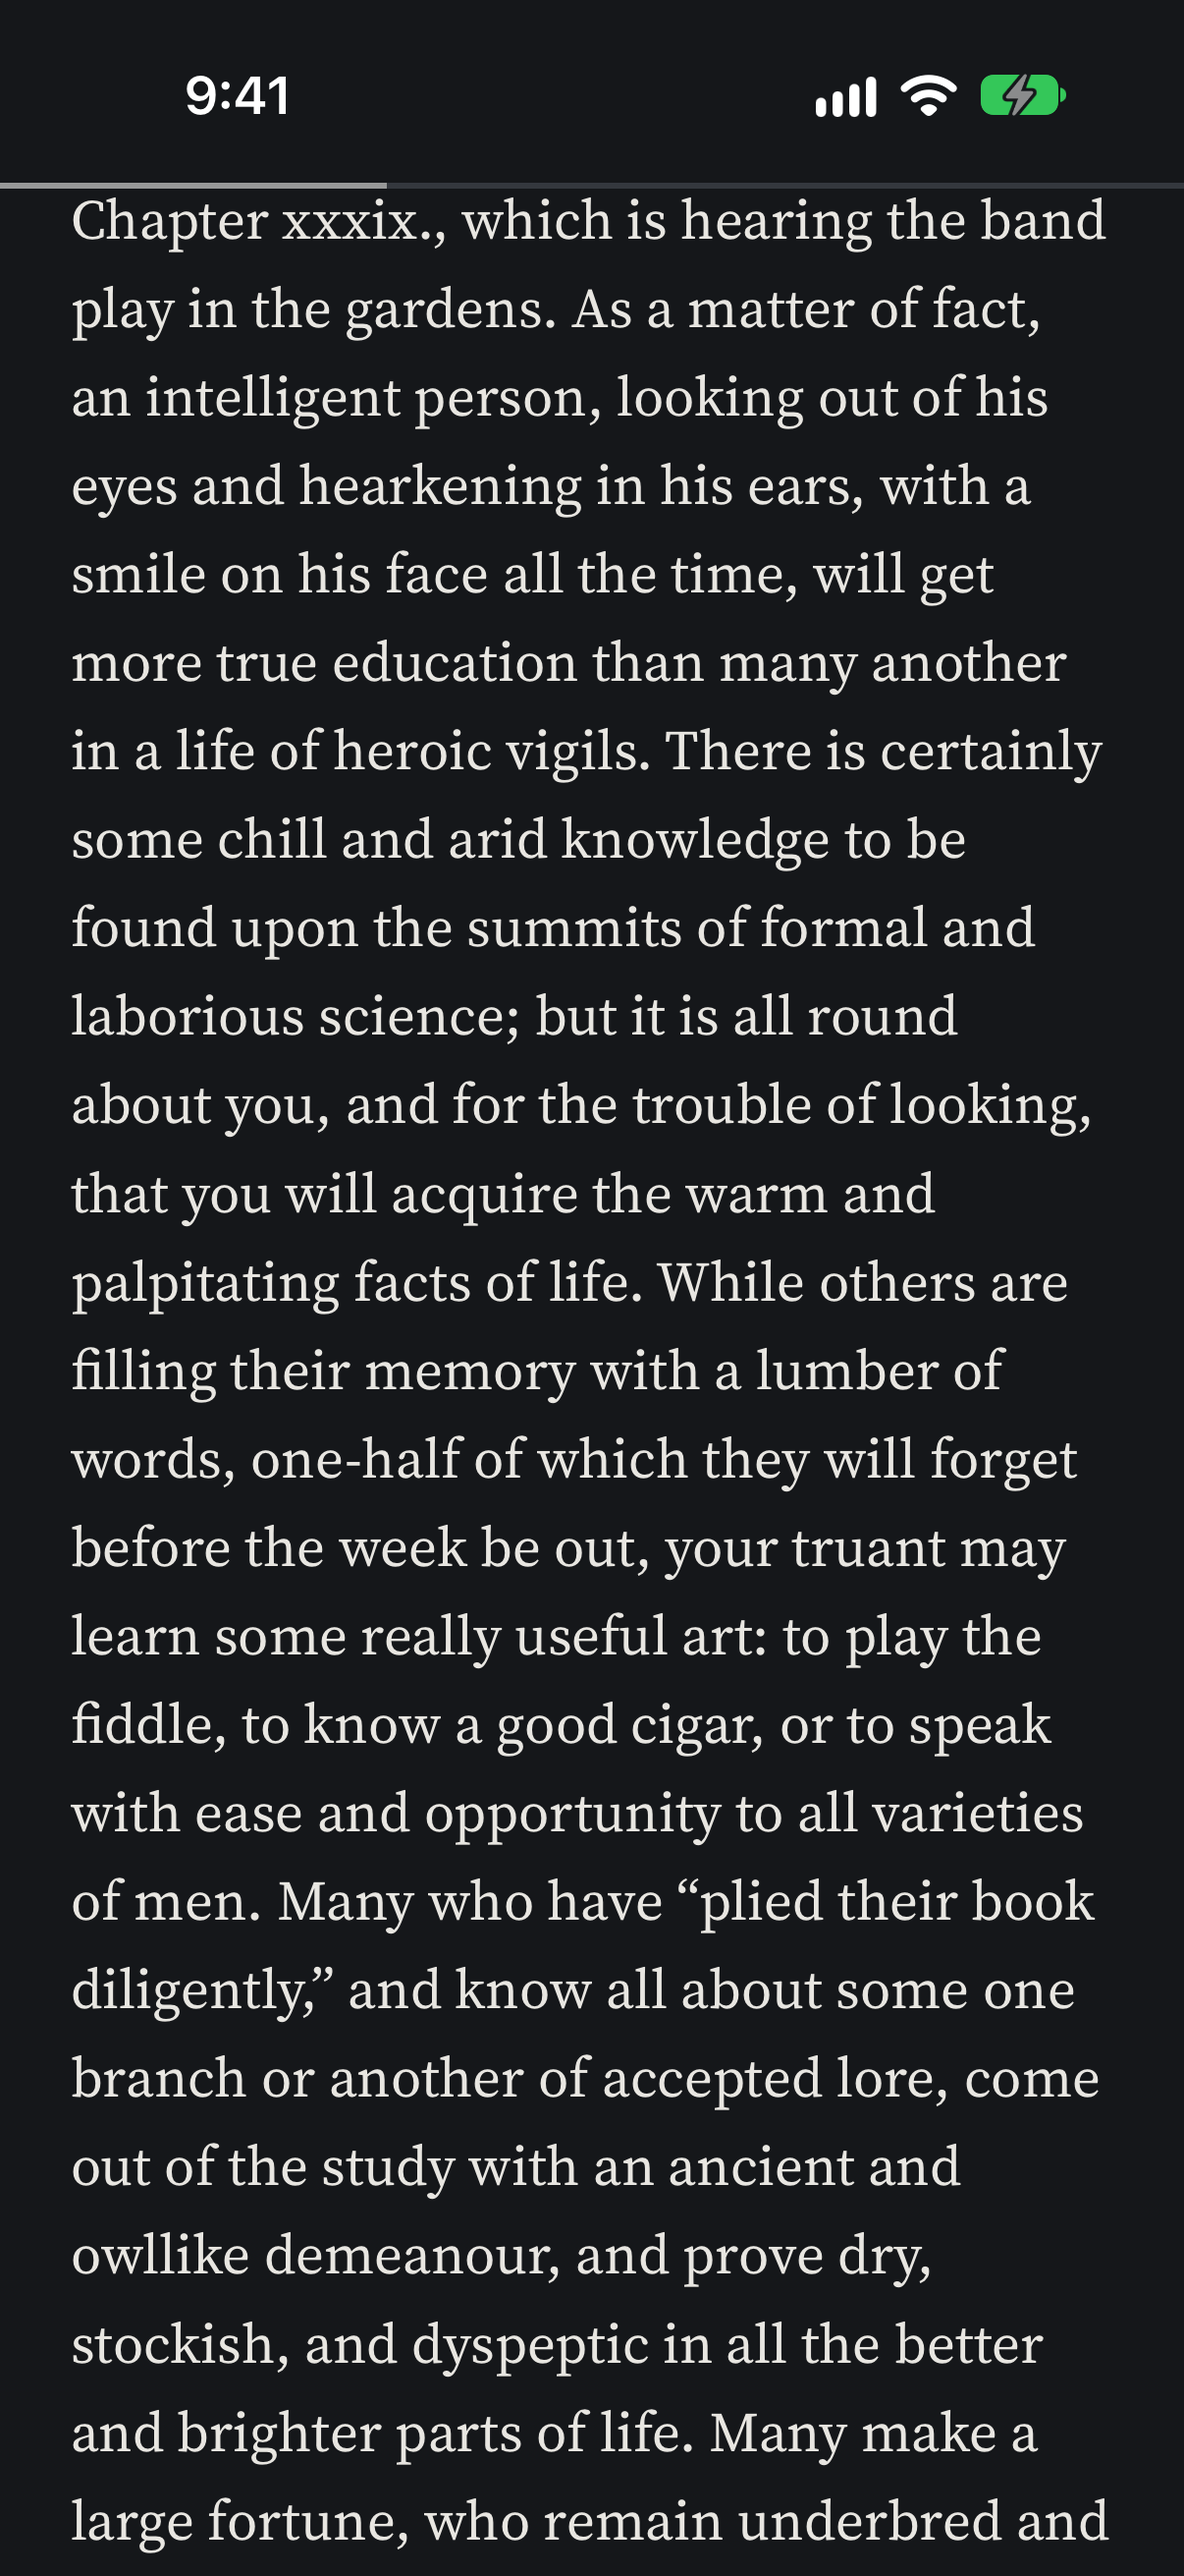
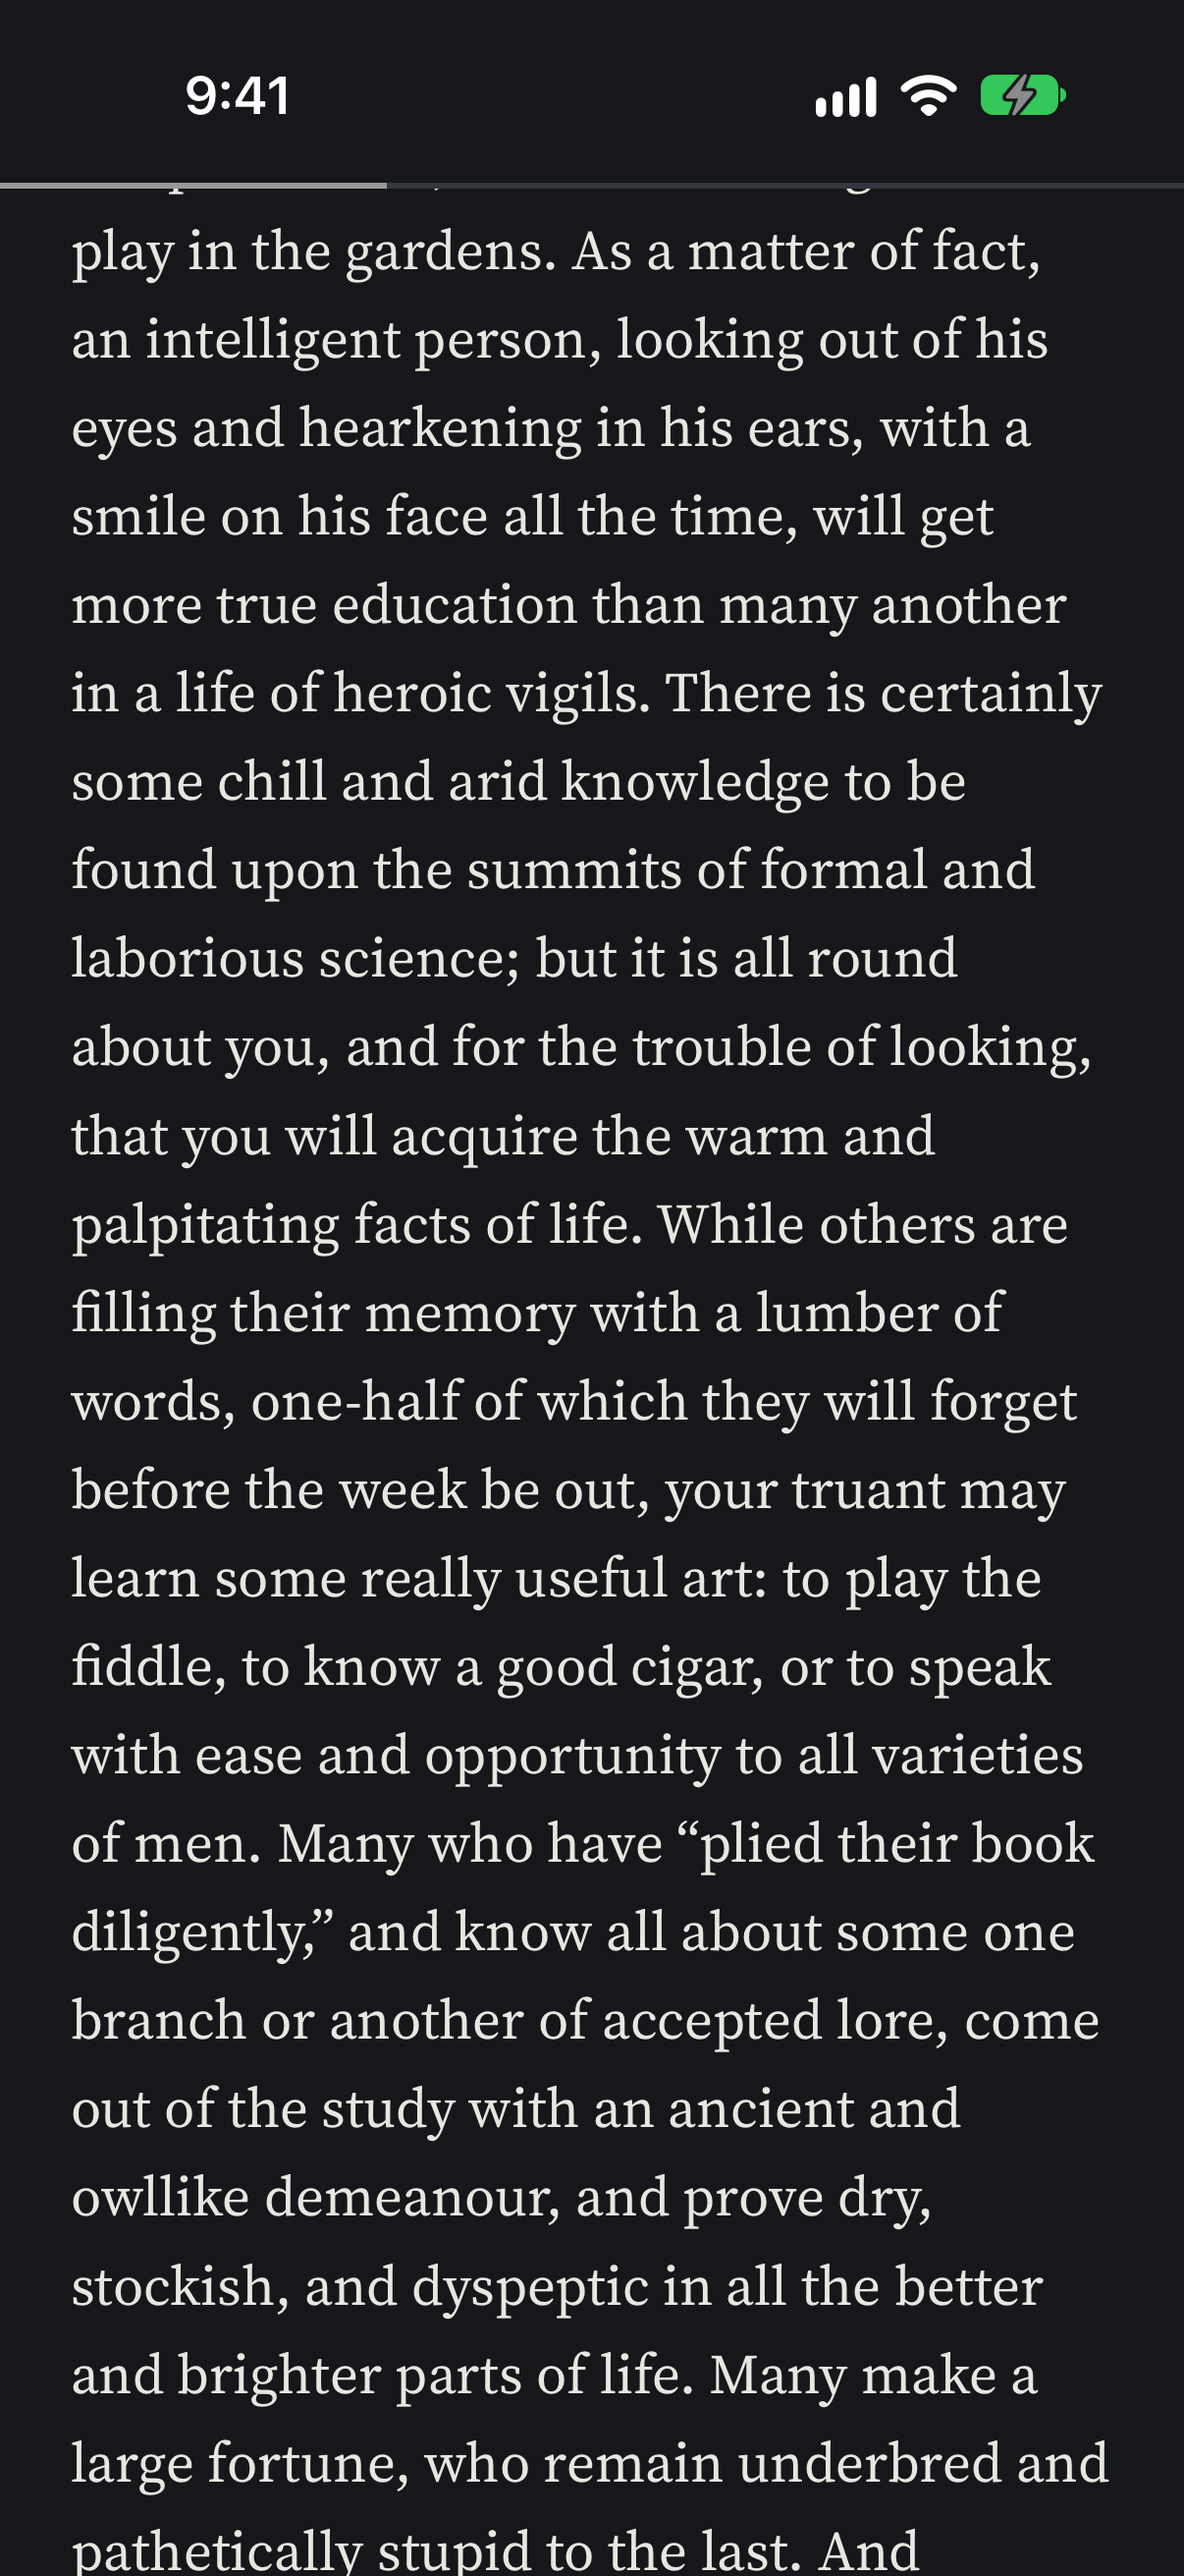
Fade the reader into its paper under the bars on iPhone (TOB-548)

Changed region(s): [[0.0614, 0.0618, 0.9511, 1.0]]

diff --git a/apple/Inkling/Reader/ReaderView.swift b/apple/Inkling/Reader/ReaderView.swift
@@ -31,6 +31,9 @@ struct ReaderView: View {
                     .frame(maxHeight: .infinity)
             }
         }
+        #if os(iOS)
+        .overlay { EdgeFades(ground: Color(palette.ground), shown: model?.chromeHidden != true) }
+        #endif
         .overlay(alignment: .top) {
             if let model { ProgressLine(progress: model.progress, palette: palette) }
         }
@@ -173,6 +176,34 @@ private struct Place: View {
         return "Chapter \(model.chapter + 1) of \(model.rendered.chapters.count) · \(percent)"
     }
 }
+
+#if os(iOS)
+/// The text dims into the paper under the bars, so a line never reads through their glass. The
+/// fades go with the bars.
+private struct EdgeFades: View {
+    let ground: Color
+    let shown: Bool
+
+    var body: some View {
+        GeometryReader { space in
+            VStack(spacing: 0) {
+                fade(from: .top).frame(height: space.safeAreaInsets.top + 20)
+                Spacer(minLength: 0)
+                fade(from: .bottom).frame(height: space.safeAreaInsets.bottom + 100)
+            }
+        }
+        .ignoresSafeArea()
+        .opacity(shown ? 1 : 0)
+        .animation(.easeInOut(duration: 0.25), value: shown)
+        .allowsHitTesting(false)
+        .accessibilityHidden(true)
+    }
+
+    private func fade(from edge: UnitPoint) -> LinearGradient {
+        LinearGradient(stops: [.init(color: ground, location: 0), .init(color: ground, location: 0.5), .init(color: ground.opacity(0), location: 1)], startPoint: edge, endPoint: edge == .top ? .bottom : .top)
+    }
+}
+#endif
 
 /// How far through, as a hairline across the top of the reader.
 private struct ProgressLine: View {
